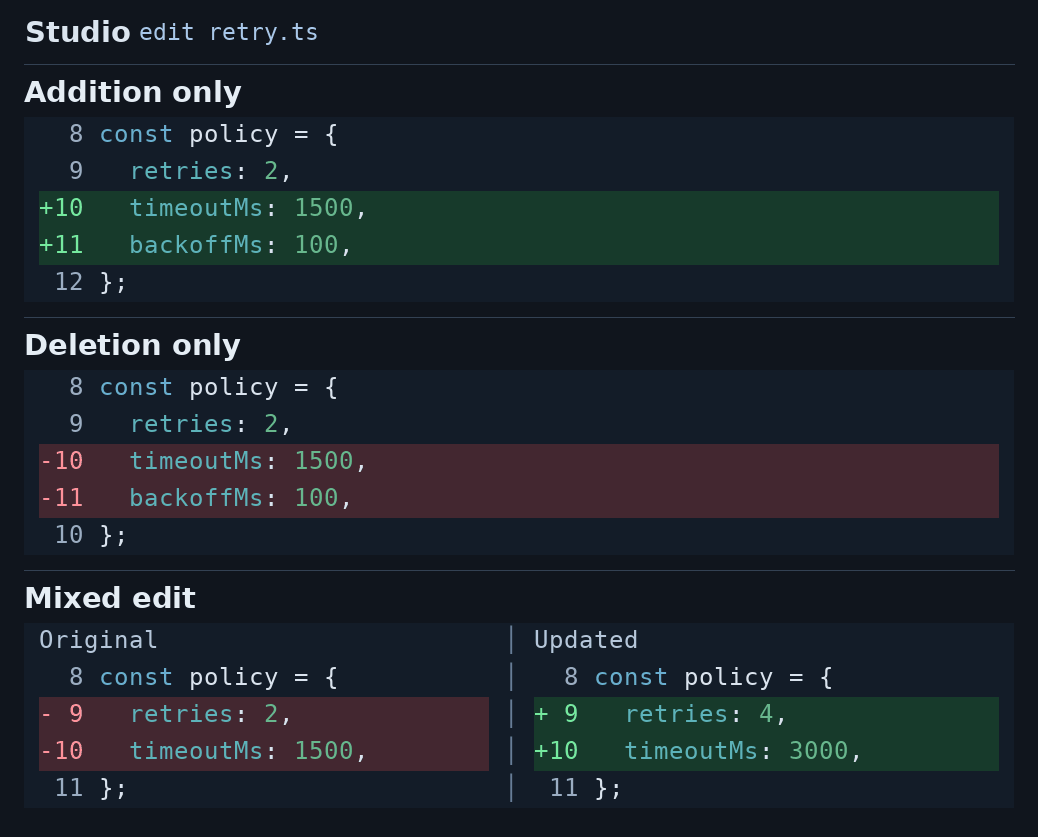
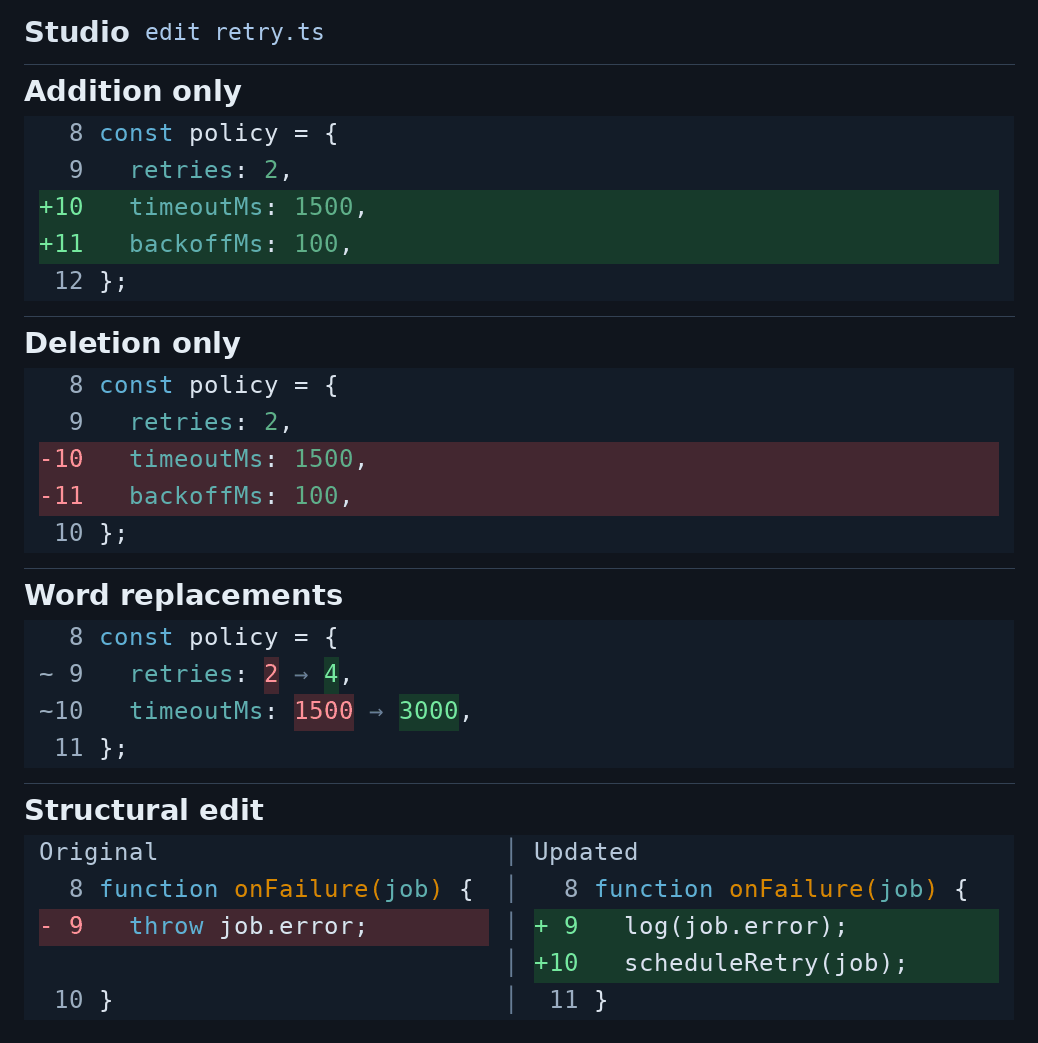
feat(diff): show simple word replacements inline

diff --git a/code-intelligence/diff.ts b/code-intelligence/diff.ts
@@ -33,6 +33,61 @@ interface DiffLine {
   after: string | undefined;
 }
 
+const identifier = /[$_\p{ID_Start}][$\p{Join_Control}\p{ID_Continue}]*/u;
+const decimal = /(?:\d[\d_]*(?:\.\d[\d_]*)?|\.\d[\d_]*)(?:[eE][+-]?\d[\d_]*)?/u;
+const radixInteger = /0[xX][\da-fA-F_]+|0[bB][01_]+|0[oO][0-7_]+/u;
+const numericLiteral = `[+-]?(?:${radixInteger.source}|${decimal.source})[\\p{ID_Continue}]*`;
+// Only identifiers and literals are replaceable. Compare all whitespace and punctuation exactly.
+const sourceToken = new RegExp(
+  `(${identifier.source}|${numericLiteral})|\\s+|.`,
+  "gu",
+);
+
+interface WordReplacement {
+  prefixWidth: number;
+  original: string;
+  updated: string;
+}
+
+function wordReplacement(
+  original: string,
+  updated: string,
+): WordReplacement | undefined {
+  const oldTokens = [...original.matchAll(sourceToken)];
+  const newTokens = [...updated.matchAll(sourceToken)];
+  if (oldTokens.length !== newTokens.length) return undefined;
+  let replacement: WordReplacement | undefined;
+  for (const [index, oldToken] of oldTokens.entries()) {
+    const newToken = newTokens[index];
+    if (newToken === undefined) return undefined;
+    if (oldToken[0] === newToken[0]) continue;
+    if (
+      replacement !== undefined ||
+      oldToken[1] === undefined ||
+      newToken[1] === undefined
+    )
+      return undefined;
+    const prefix = updated.slice(0, newToken.index);
+    const suffix = updated.slice(newToken.index + newToken[0].length);
+    // Punctuation alone gives too little evidence to align two unrelated lines.
+    if (!/[\p{L}\p{N}_$]/u.test(prefix + suffix)) return undefined;
+    // A sign after an operand may be a binary operator. Keep the full comparison in that case.
+    const preceding = prefix.trimEnd().at(-1);
+    if (
+      (/^[+-]/u.test(oldToken[0]) || /^[+-]/u.test(newToken[0])) &&
+      preceding !== undefined &&
+      !"=:,([{".includes(preceding)
+    )
+      return undefined;
+    replacement = {
+      prefixWidth: visibleWidth(clean(prefix)),
+      original: oldToken[0],
+      updated: newToken[0],
+    };
+  }
+  return replacement;
+}
+
 function parseDiffLines(diff: string): DiffLine[] {
   const lines: DiffLine[] = diff.split("\n").map((line) => {
     const match = /^([+\- ])(\s*\d+) (.*)$/u.exec(line);
@@ -278,8 +333,62 @@ export function syntaxDiffRows(
         (newRows[row] ?? " ".repeat(rightWidth)),
     );
   };
+  const compactWordRows = (): Map<DiffLine, string> | undefined => {
+    const pending = new Map<string, DiffLine>();
+    const rows = new Map<DiffLine, string>();
+    for (const line of lines) {
+      if (line.prefix === "-") {
+        pending.set(line.number, line);
+        continue;
+      }
+      if (line.prefix !== "+") {
+        if (pending.size > 0) return undefined;
+        continue;
+      }
+      const removed = pending.get(line.number);
+      if (removed === undefined) return undefined;
+      pending.delete(line.number);
+      const number = Number(line.afterNumber);
+      if (
+        activeIssues.some(
+          (issue) =>
+            issue.line <= number && (issue.endLine ?? issue.line) >= number,
+        )
+      )
+        return undefined;
+      const codeWidth = visibleWidth(line.code);
+      if (gutter + Math.max(codeWidth, visibleWidth(removed.code)) >= inner)
+        return undefined;
+      const change = wordReplacement(removed.rawCode, line.rawCode);
+      if (
+        change === undefined ||
+        gutter + codeWidth + visibleWidth(change.original) + 3 > inner
+      )
+        return undefined;
+      const code = line.after ?? line.code;
+      const suffixStart = change.prefixWidth + visibleWidth(change.updated);
+      rows.set(
+        line,
+        theme.fg("toolDiffContext", `~${line.number.padStart(digits)} `) +
+          sliceByColumn(code, 0, change.prefixWidth) +
+          background(removed, theme.fg("toolDiffRemoved", change.original)) +
+          theme.fg("dim", " → ") +
+          background(line, theme.fg("toolDiffAdded", change.updated)) +
+          sliceByColumn(code, suffixStart, Number.POSITIVE_INFINITY),
+      );
+    }
+    return pending.size === 0 ? rows : undefined;
+  };
   const body: string[] = [];
-  if (split) {
+  const compact = hasAdditions && hasDeletions ? compactWordRows() : undefined;
+  if (compact !== undefined) {
+    for (const line of lines) {
+      if (line.prefix === "-") continue;
+      const replacement = compact.get(line);
+      if (replacement === undefined) body.push(...cell(line, "after", inner));
+      else body.push(replacement);
+    }
+  } else if (split) {
     body.push(
       pad(theme.fg("muted", "Original"), leftWidth) +
         theme.fg("dim", " │ ") +

diff --git a/tests/diagnostics.test.ts b/tests/diagnostics.test.ts
@@ -2,7 +2,7 @@ import { syntaxDiffRows } from "../code-intelligence/diff.ts";
 import assert from "node:assert/strict";
 import { test } from "node:test";
 import type { ThemeBg, ThemeColor } from "@earendil-works/pi-coding-agent";
-import { visibleWidth } from "@earendil-works/pi-tui";
+import { stripTerminalSequences, visibleWidth } from "@earendil-works/pi-tui";
 import {
   diagnosticRows,
   type DiagnosticSnapshot,
@@ -136,6 +136,65 @@ await test("edit diffs switch between aligned split and unified layouts without 
   );
   assert.ok(wrapped.every((row) => visibleWidth(row) <= 100));
   assert.match(wrapped.join("\n"), /short/u);
+});
+
+function renderDiff(diff: string, width: number): string {
+  const rows = syntaxDiffRows(diff, "retry.txt", plain, width, "/project");
+  assert.ok(rows.every((row) => visibleWidth(row) <= width));
+  return rows.map(stripTerminalSequences).join("\n");
+}
+
+await test("small replacements show both tokens inline and shared code once", () => {
+  const diff = [
+    " 1 const policy = {",
+    "-2   retries: 2,",
+    "-3   timeoutMs: 1500,",
+    "-4   mode: passive,",
+    "+2   retries: 4,",
+    "+3   timeoutMs: 3000,",
+    "+4   mode: active,",
+    " 5 };",
+  ].join("\n");
+  for (const width of [60, 120]) {
+    const text = renderDiff(diff, width);
+    assert.doesNotMatch(text, /Original|Updated| │ /u);
+    for (const label of ["const policy", "retries:", "timeoutMs:", "mode:"])
+      assert.equal(text.split(label).length, 2, label);
+    assert.ok(text.includes("retries: 2 → 4,"));
+    assert.ok(text.includes("timeoutMs: 1500 → 3000,"));
+    assert.ok(text.includes("mode: passive → active,"));
+  }
+  assert.match(
+    renderDiff("-1 rate: 1.25\n+1 rate: 1.75", 120),
+    /rate: 1\.25 → 1\.75/u,
+  );
+});
+
+await test("changing an operator or whitespace with a value preserves both expressions", () => {
+  assert.match(
+    renderDiff("-1 base-2\n+1 base+4", 120),
+    /-1 base-2\s*│\s*\+1 base\+4/u,
+  );
+  assert.match(
+    renderDiff("-1 retries: 2\n+1 retries:  4", 120),
+    /-1 retries: 2\s*│\s*\+1 retries: {2}4/u,
+  );
+});
+
+await test("a replacement that cannot fit inline keeps both source lines", () => {
+  const diff = "-1 mode: previousMode,\n+1 mode: proposedMode,";
+  const text = renderDiff(diff, 24);
+  assert.match(text, /-1 mode: previousMode,/u);
+  assert.match(text, /\+1 mode: proposedMode,/u);
+});
+
+await test("one-sided diffs use a single column even with surrounding context", () => {
+  for (const sign of ["+", "-"]) {
+    const text = renderDiff(` 1 start();\n${sign}2 retry();`, 120);
+    assert.doesNotMatch(text, /Original|Updated| │ /u);
+    assert.ok(text.includes(`${sign}2 retry();`));
+    assert.equal(text.split("start();").length, 2);
+  }
 });
 
 await test("edit inlays stay attached to each occurrence and underline the source range", () => {

diff --git a/acceptance/lsp.ts b/acceptance/lsp.ts
@@ -14,6 +14,7 @@ import { join } from "node:path";
 import { fileURLToPath } from "node:url";
 import { setTimeout as delay } from "node:timers/promises";
 import { promisify } from "node:util";
+import { stripTerminalSequences } from "@earendil-works/pi-tui";
 import { z } from "zod";
 import {
   createAgentSessionFromServices,
@@ -175,7 +176,9 @@ try {
     () => native,
   );
   assert.ok(rendered?.renderResult !== undefined);
+  const renderOptions = { expanded: false, isPartial: false };
   const renderContext = {
+    ...renderOptions,
     args: { path: "b.ts" },
     toolCallId: written.toolCall.id,
     invalidate() {},
@@ -184,23 +187,22 @@ try {
     cwd: root,
     executionStarted: true,
     argsComplete: true,
-    isPartial: false,
-    expanded: false,
     showImages: false,
     isError: false,
     durationMs: 0,
     outputPad: 0,
   };
   assert.ok(rendered.renderCall !== undefined);
+  const theme = session.extensionRunner.getUIContext().theme;
   const callComponent = rendered.renderCall(
     renderContext.args,
-    session.extensionRunner.getUIContext().theme,
+    theme,
     renderContext,
   );
   const component = rendered.renderResult(
     written.result,
-    { expanded: false, isPartial: false },
-    session.extensionRunner.getUIContext().theme,
+    renderOptions,
+    theme,
     renderContext,
   );
   await eventually(
@@ -217,6 +219,7 @@ try {
     );
     assert.ok(rows.some((row) => row.includes("\x1b[4:3m")));
   }
+  // The type diagnostic needs the updated source line for its range and inlay.
   assert.match(callComponent.render(120).join("\n"), /Original.*Updated/u);
   assert.doesNotMatch(
     callComponent.render(100).join("\n"),
@@ -227,6 +230,24 @@ try {
     assert.ok(output.includes("\x1b[48;2;48;70;57m"));
     assert.ok(output.includes("\x1b[48;2;71;52;63m"));
   }
+  await writeFile(join(root, "policy.txt"), "retries: 2\n");
+  const policyArgs = {
+    path: "policy.txt",
+    edits: [{ oldText: "2", newText: "4" }],
+  };
+  const policy = await tool.executeTool("edit", policyArgs);
+  assert.equal(policy.isError, false);
+  const policyContext = {
+    ...renderContext,
+    args: policyArgs,
+    toolCallId: policy.toolCall.id,
+    state: {},
+  };
+  const policyCall = rendered.renderCall(policyArgs, theme, policyContext);
+  rendered.renderResult(policy.result, renderOptions, theme, policyContext);
+  const policyText = stripTerminalSequences(policyCall.render(120).join("\n"));
+  assert.match(policyText, /retries: 2 → 4/u);
+  assert.doesNotMatch(policyText, /Original|Updated| │ /u);
   await eventually(
     () => call(lspTool, { action: "diagnostics", path: "b.ts" }),
     /2322/u,

diff --git a/README.md b/README.md
@@ -218,7 +218,11 @@ LSP support is enabled by default and starts installed servers on demand only af
 
 `studio_lsp` provides definitions, references, implementations, hover/types, document/workspace symbols, and diagnostics when the selected server supports them. File paths select the project; tool positions and returned locations use one-based lines and UTF-16 columns. Text search remains available for discovery, configuration, strings, and unsupported languages. Protocol initialization does not guarantee that project indexing has finished.
 
-Successful Pi edits and writes show readable error/warning diagnostics directly below their result in the conversation, with severity glyphs and source locations. By default, each diagnostic on a visible resulting line appears as an inlay. Inlays sit beside the code when space permits and wrap underneath it otherwise. Diagnostics with a known source range also undercurl the affected code. Messages for other lines appear below the diff. Set `display.inline_diagnostics = false` to move every message below the diff, where identical messages of the same severity share an entry. Edit diffs retain line numbers, addition/removal gutters, and separate syntax highlighting for old and new source. Addition-only and deletion-only diffs use a single full-width column. Mixed edits use aligned Original/Updated columns when both sides meet the configured minimum code width, then fall back to unified output in narrower panes. Each side wraps independently without shifting subsequent paired rows. To change the cutoff, copy the `[display]` section from [config.example.toml](config.example.toml) into your Studio `config.toml`, set `display.min_split_columns` to a positive integer, and reload Pi. The default is 40 when the file or setting is absent. Set `display.added_background` or `display.removed_background` to a quoted `#RRGGBB` color to tint changed cells in split view and changed rows in unified view. Omitted colors use the active theme’s tool background. The collapsed diagnostics view shows up to two distinct messages; expanding the native tool output shows the remaining bounded results. Diagnostics that arrive later update the same edit result without taking focus or starting another assistant turn; no diagnostics command is needed. Late results are retained in hidden native session messages so the model and restored chat history receive them. Missing servers do not fail the edit. Pending results and diagnostics without a document version remain labeled; neither establishes a clean file. Shell edits are refreshed on subsequent LSP queries. Servers and document state belong to the active Pi runtime and project and are released on reload, shutdown, or a `/cd` session replacement. Read-only delegated snapshots do not load this extension.
+Successful Pi edits and writes show readable error/warning diagnostics directly below their result in the conversation, with severity glyphs and source locations. By default, each diagnostic on a visible resulting line appears as an inlay. Inlays sit beside the code when space permits and wrap underneath it otherwise. Diagnostics with a known source range also undercurl the affected code. Messages for other lines appear below the diff. Set `display.inline_diagnostics = false` to move every message below the diff, where identical messages of the same severity share an entry.
+
+Edit diffs show additions or deletions alone in a single full-width column. When each changed line replaces one word or number and the result fits, the surrounding code appears once, as in `retries: 2 → 4`. The old and new values use the removal and addition colors. More complex edits, or replacements with an inline diagnostic on the changed line, use aligned Original/Updated columns when both sides meet the configured minimum code width and unified output in narrower panes. Each side wraps independently without shifting subsequent paired rows. To change the cutoff, copy the `[display]` section from [config.example.toml](config.example.toml) into your Studio `config.toml`, set `display.min_split_columns` to a positive integer, and reload Pi. The default is 40 when the file or setting is absent. Set `display.added_background` or `display.removed_background` to a quoted `#RRGGBB` color to tint changed cells in split view and changed rows in unified view. Omitted colors use the active theme’s tool background.
+
+The collapsed diagnostics view shows up to two distinct messages; expanding the native tool output shows the remaining bounded results. Diagnostics that arrive later update the same edit result without taking focus or starting another assistant turn; no diagnostics command is needed. Late results are retained in hidden native session messages so the model and restored chat history receive them. Missing servers do not fail the edit. Pending results and diagnostics without a document version remain labeled; neither establishes a clean file. Shell edits are refreshed on subsequent LSP queries. Servers and document state belong to the active Pi runtime and project and are released on reload, shutdown, or a `/cd` session replacement. Read-only delegated snapshots do not load this extension.
 
 `studio_lsp_rename` first returns unified diffs and a five-minute preview token, then applies that token after rechecking the original contents. Renames use Pi's normal write tools and permission hooks; managed Edd leads also require an approved implementation plan and current task revision. File resource operations, symbolic links, `.git` paths, edits outside the active directory, overlapping edits, more than 100 files, and diffs exceeding the preview limit are rejected. Application across files is not atomic: a blocked or failed write reports the applied paths and recovery token. Original/proposed file contents are retained in the native `studio:rename-recovery` session entry before writing; these survive restart only when the Pi session is persisted. Inspect them before recovering through normal editing tools.
 
